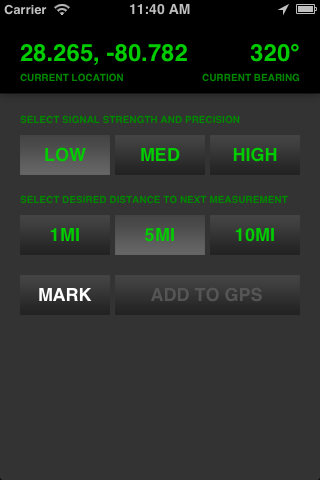
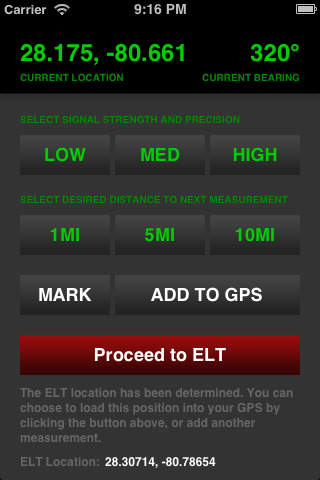
Adding fake data so you don't actually have to drive 10 miles.

diff --git a/app/controllers/home.js b/app/controllers/home.js
@@ -1,13 +1,3 @@
-/*
-START:
-28.175475
--80.661
-
-NEXT:
-28.265044
--80.782353
-*/
-
 // Controller dependencies
 var APP = require("core");
 var NAVIBRIDGE = require("ti.navibridge/ti.navibridge");
@@ -17,14 +7,18 @@ var GEO = require("geo");
 $.currentLocation = {
 	latitude: null,
 	longitude: null,
-	bearing: 320 // @TODO: Set this to null
+	bearing: null
 };
 
 $.savedLocation = {
 	latitude: null,
 	longitude: null,
 	bearing: null
-	// @TODO: Do we need distance here?
+};
+
+$.eltLocation = {
+	latitude: null,
+	longitude: null
 };
 
 $.selectedOptions = {
@@ -175,9 +169,9 @@ $.markLocation = function(_event) {
 	$.clearButtons();
 	$.toggleGPSButton(true);
 	
-	// TODO: REMOVE!
+	// TODO: REMOVE! We're faking it!
 	setTimeout(function() {
-		$.currentLocation.bearing = 355;
+		$.fakeIt();
 	}, 1000);
 };
 
@@ -200,30 +194,25 @@ $.toggleGPSButton = function(_state) {
  * Calculate and add the next waypoint to the GPS
  */
 $.addToGPS = function(_event) {
-	Ti.API.info($.savedLocation.bearing);
-	
 	var waypoint = GEO.destinationPoint($.savedLocation, $.selectedOptions.distance);
 	
 	$.toggleGPSButton(false);
 	
-	Ti.API.info(waypoint.latitude + ", " + waypoint.longitude);
+	Ti.API.info("Waypoint: " + waypoint.latitude + ", " + waypoint.longitude);
 	
 	NAVIBRIDGE.addPOI({
 		lat: waypoint.latitude,
 		lon: waypoint.longitude
 	});
-	
-	NAVIBRIDGE.addMultiPOI({
-		poi: [
-			{
-				lat: waypoint.latitude,
-				lon: waypoint.longitude
-			},
-			{
-				lat: waypoint.latitude,
-				lon: waypoint.longitude
-			}
-		]
+};
+
+/**
+ * Calculate and add the ELT location to the GPS
+ */
+$.addELTToGPS = function() {
+	NAVIBRIDGE.addPOI({
+		lat: $.eltLocation.latitude,
+		lon: $.eltLocation.longitude
 	});
 };
 
@@ -237,57 +226,84 @@ $.determineDestination = function() {
 	
 	if(rowCount > 1) {
 		// We have enough data to calcaulte!
-		var alert = Ti.UI.createAlertDialog({
-			title: "Position Determined",
-			message: "Would you like to load the calculated ELT position into your GPS unit?",
-			cancel: 1,
-			buttonNames: [ "Yes", "Cancel" ]
-		});
+		var db = Ti.Database.open("SARA");
 		
-		alert.addEventListener("click", function(_event) {
-			if(_event.index == 0) {
-				var db = Ti.Database.open("SARA");
-				
-				var data = db.execute("SELECT * FROM marks ORDER BY timestamp DESC LIMIT 2;");
-				
-				var temp = [];
+		var data = db.execute("SELECT * FROM marks ORDER BY timestamp DESC LIMIT 2;");
 		
-				while(data.isValidRow()) {
-					// Clean up the data we receive before passing it along
-					temp.push({
-						latitude: data.fieldByName("latitude"),
-						longitude: data.fieldByName("longitude"),
-						bearing: data.fieldByName("bearing")
-					});
-					
-					data.next();
-				}
-				
-				data.close();
-				
-				var waypoint = GEO.intersection(temp[0], temp[1]);
-				
-				Ti.API.info("ELT: " + waypoint.latitude + ", " + waypoint.longitude);
-				
-				NAVIBRIDGE.addPOI({
-					lat: waypoint.latitude,
-					lon: waypoint.longitude
-				});
-			}
-		});
+		var temp = [];
+	
+		while(data.isValidRow()) {
+			// Clean up the data we receive before passing it along
+			temp.push({
+				latitude: data.fieldByName("latitude"),
+				longitude: data.fieldByName("longitude"),
+				bearing: data.fieldByName("bearing")
+			});
+			
+			data.next();
+		}
 		
-		alert.show();
+		data.close();
+		
+		var waypoint = GEO.intersection(temp[0], temp[1]);
+		
+		Ti.API.info("ELT: " + waypoint.latitude + ", " + waypoint.longitude);
+		
+		$.buttonLoadELT.opacity = 1;
+		$.eltLabel.opacity = 1;
+		$.eltCoordinate.opacity = 1;
+		
+		$.eltCoordinateValue.text = (Math.round(waypoint.latitude * 100000) / 100000) + ", " + (Math.round(waypoint.longitude * 100000) / 100000);
+		
+		$.eltLocation = {
+			latitude: waypoint.latitude,
+			longitude: waypoint.longitude
+		};
 	}
 	
 	db.close();
 };
 
 // Event handlers
-Ti.Geolocation.addEventListener("location", $.locationObserver);
-Ti.Geolocation.addEventListener("heading", $.bearingObserver);
+// TODO: Uncomment these
+// Ti.Geolocation.addEventListener("location", $.locationObserver);
+// Ti.Geolocation.addEventListener("heading", $.bearingObserver);
 
 $.buttonMark.addEventListener("click", $.markLocation);
 $.buttonGPS.addEventListener("click", $.addToGPS);
+$.buttonLoadELT.addEventListener("click", $.addELTToGPS);
 
 // Kick off the script
 $.addEventHandlers();
+
+// FAKE IT!
+// TEMPORARY DATA
+// This is necessary because it's hard to demo driving 10 miles!
+// TODO: Remove!
+$.fakeLocations = [
+	{
+		latitude: "28.175475",
+		longitude: "-80.661",
+		bearing: 320
+	},
+	{
+		latitude: "28.265044",
+		longitude: "-80.782353",
+		bearing: 355
+	}
+];
+
+$.fakeItIndex = 0;
+
+$.fakeIt = function() {
+	$.bearingObserver({ heading: { trueHeading: $.fakeLocations[$.fakeItIndex].bearing }});
+	$.locationObserver({ coords: { latitude: $.fakeLocations[$.fakeItIndex].latitude, longitude: $.fakeLocations[$.fakeItIndex].longitude }});
+	
+	if($.fakeItIndex == 1) {
+		$.fakeItIndex = 0;	
+	} else {
+		$.fakeItIndex++;
+	}
+};
+
+$.fakeIt();
